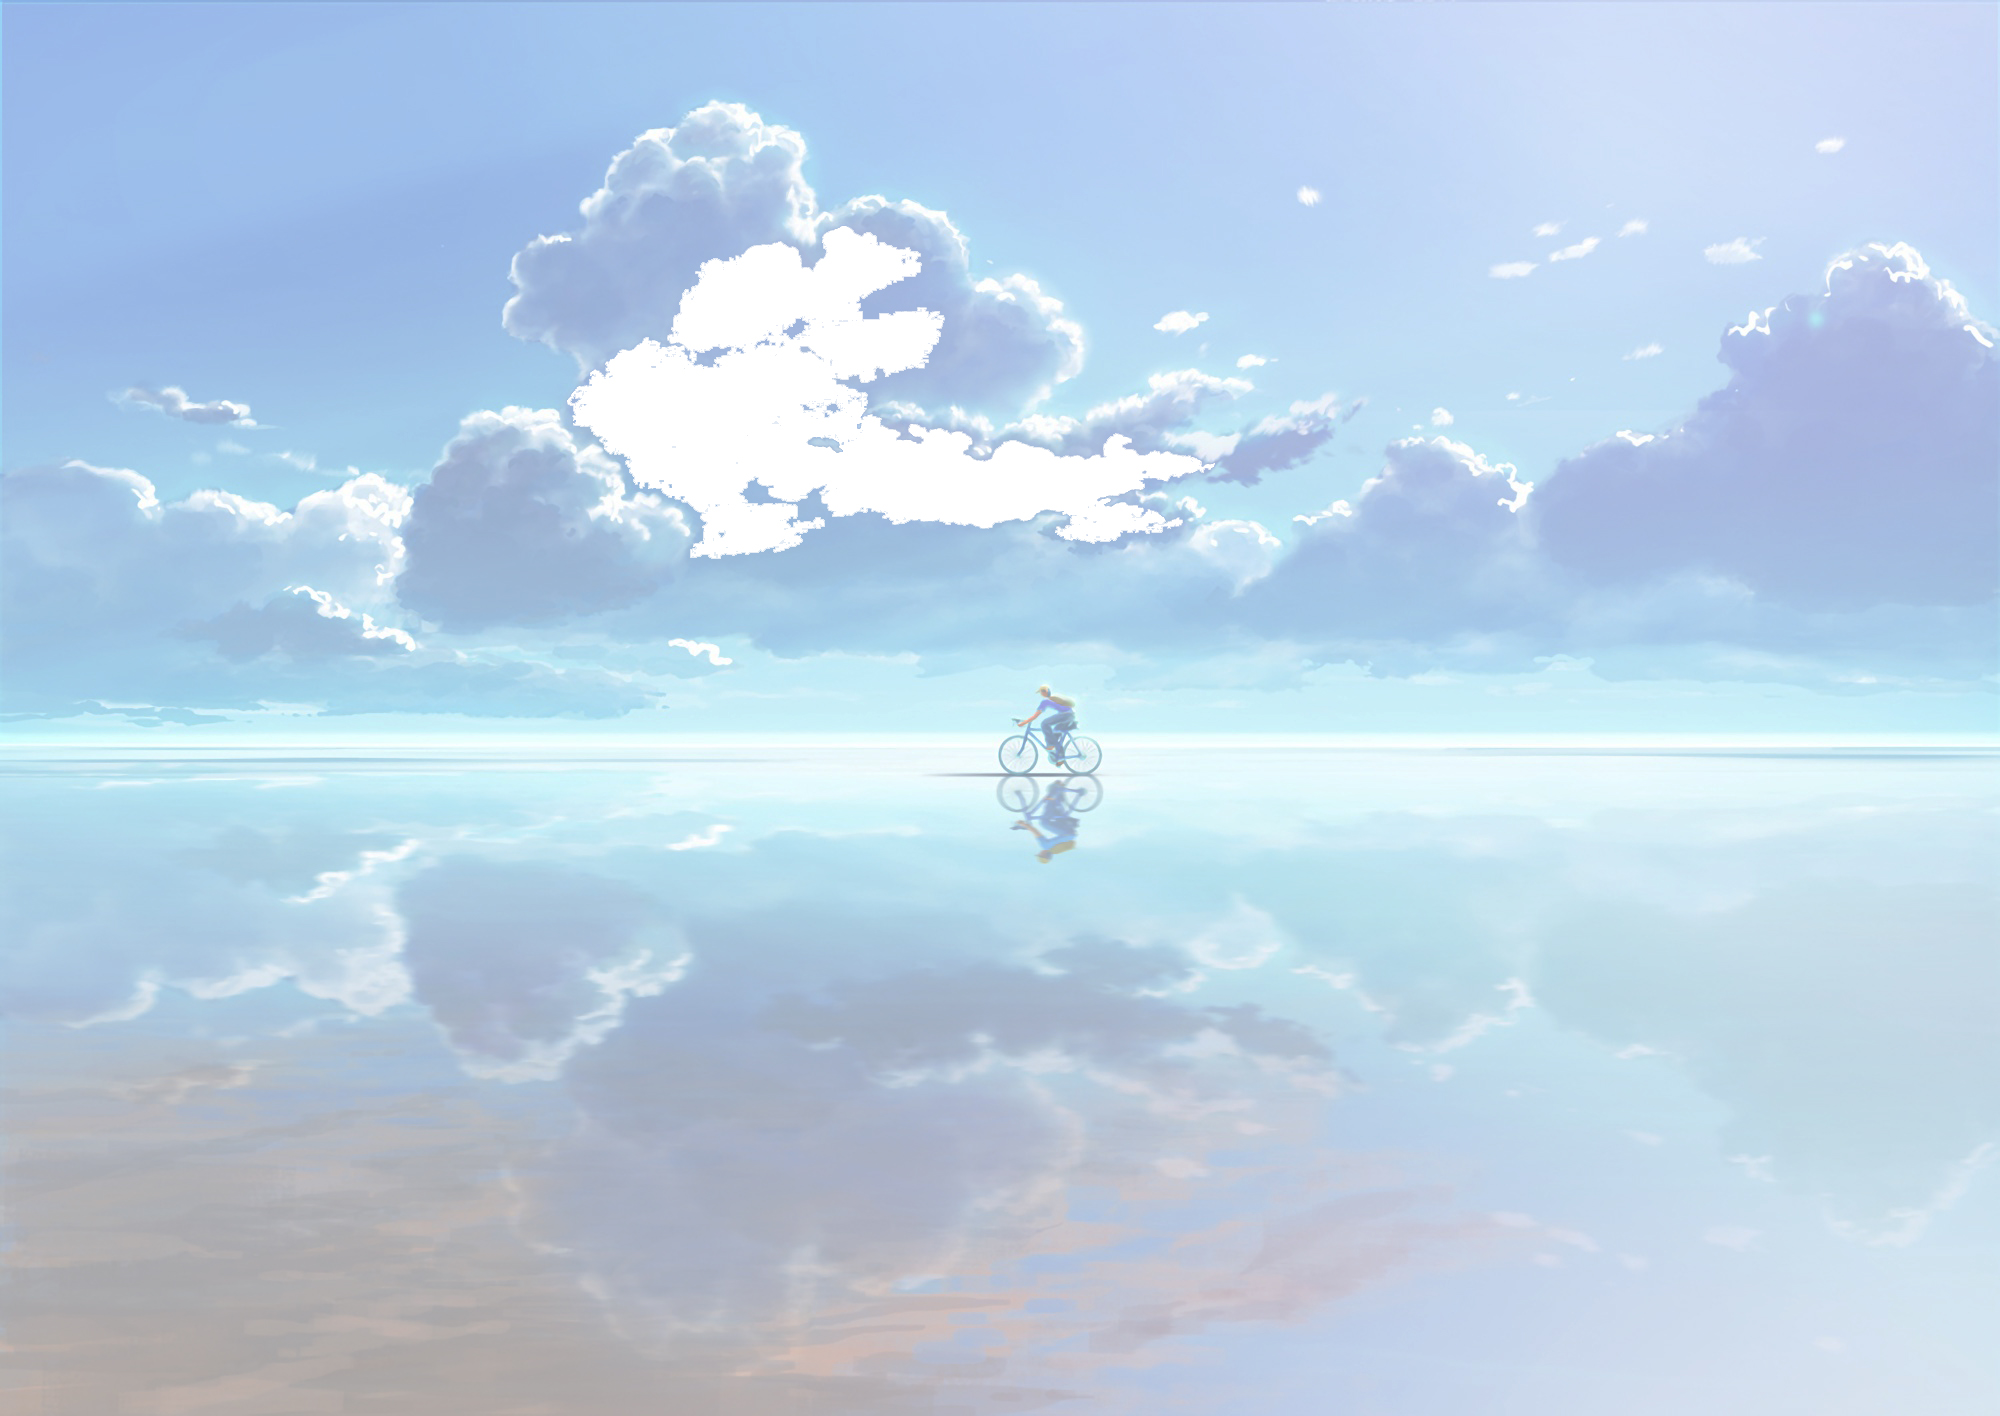
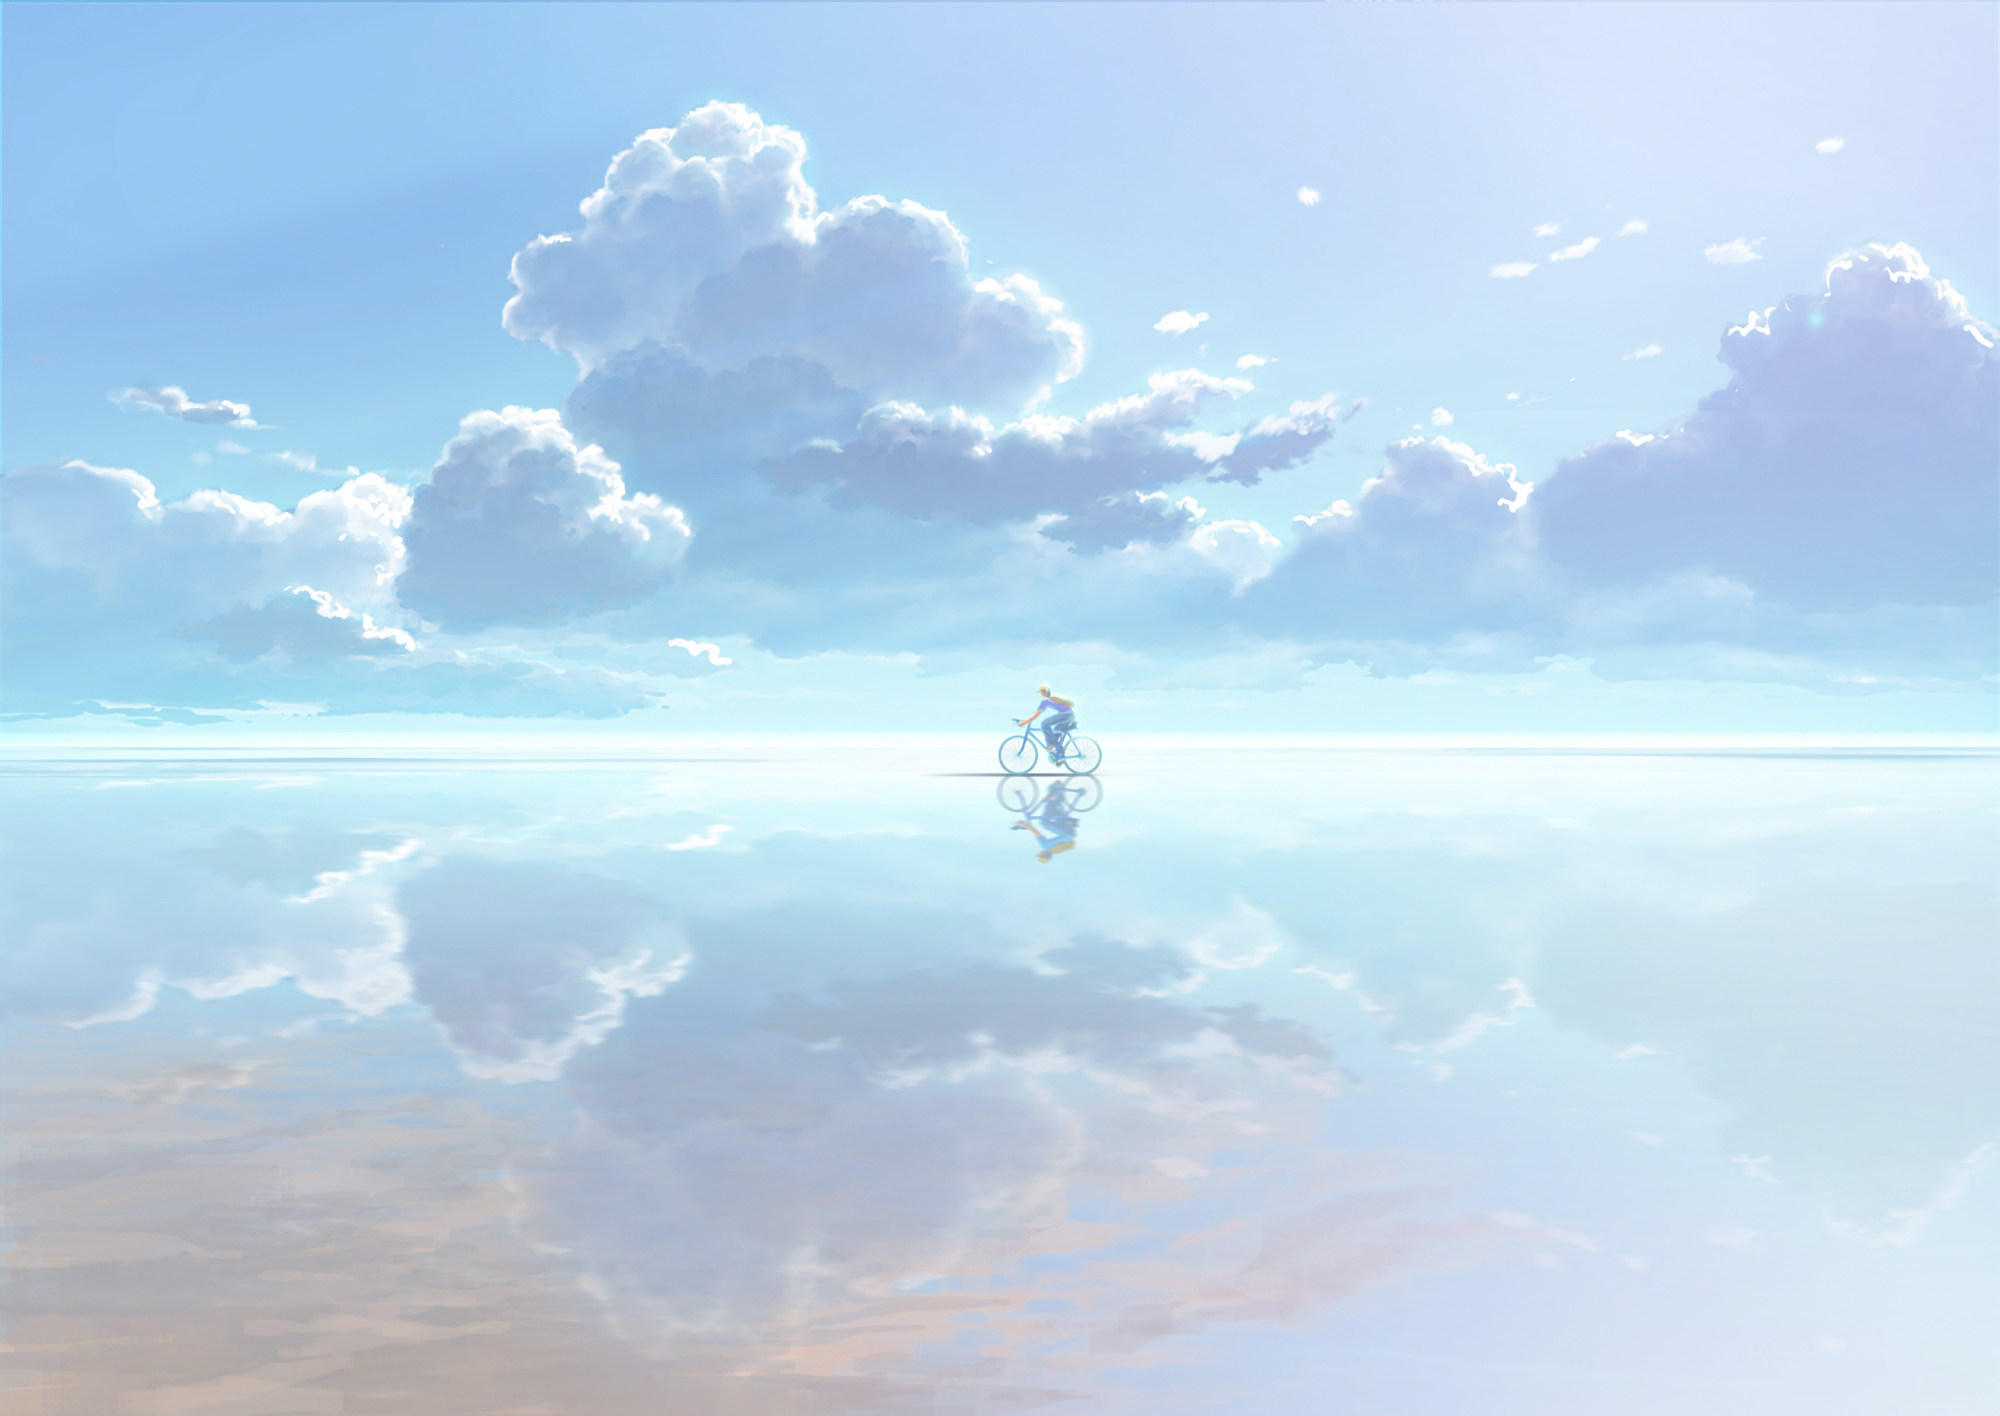
7-2

Changed region(s): [[0.279, 0.1554, 0.62, 0.404]]

diff --git a/src/main/resources/templates/index.html b/src/main/resources/templates/index.html
@@ -47,9 +47,13 @@
     </div>
 
     <div id="header_setting">
-        <img style="height:60px;width:60px;" src="image/setting.png" />
+        <div>
+            <img @click="bgsettingshow" style="height:60px;width:60px;" src="image/setting.png" />
+        </div>
+        <div v-if="bgsisshow" class="bgs">
+            <img class="bgspic"  v-for="(item,index) in bgslist" @click="changebg(index)" :src="item.src"/>
+        </div>
     </div>
-
     <div id="header_txbox">
         <img src="image/tx.ico" id="header_tx">
         <div style="top:25px;left:85px;position: absolute;"></div>
@@ -82,8 +86,8 @@
 <div id="zx_box">
     <p class="zx_box_title">热门资讯
     </p>
-
     <div id="zx_box_1">
+        <button onclick="changebg()"></button>
         <news  myclassname="zxi" news_title="item.news_title" news_id=item.news_id news_img="item.news_img" news_time="item.news_time" news_content="item.news_content">
         </news>
         <news  v-for="item in zxall" myclassname="zxi" :news_title="item.news_title" :news_id=item.news_id :news_img="item.news_img" :news_time="item.news_time" :news_content="item.news_content">
@@ -105,9 +109,38 @@
 <script src="js/pic_box.js" ></script>
 <script src="js/xmagic.js" ></script>
 <script src="js/indexvue.js" ></script>
+<script>
+    var setvue=new Vue({
+        el:"#header_setting",
+        data: {
+            bgsisshow:false,
+            bgslist:[
+            ],
+
+        },
+        methods:{
+            bgsettingshow() {
+                this.bgsisshow=!this.bgsisshow;
+                console.log("showit");
+            },
+            changebg(which){
+                document.documentElement.style.setProperty("--bgimg",'url("'+this.bgslist[which].var+'")')
+            }
+
+        }
+
+    },)
+
+    for(var i=1;i<21;i++){
+        var bgp={src:"",var:""};
+        bgp.src="image/background/"+i+".jpg";
+        console.log(bgp.src);
+        bgp.var="../"+bgp.src;
+        setvue.bgslist.push(bgp);
+    }
+</script>
 </body>
 <style>
-
     .zxi_pic_fly{
         position: absolute;
         left: 0;
@@ -115,6 +148,17 @@
         width: 50px;
         height: 50px;
     }
-
+    .bgspic{
+        width: 100px;
+        height: 100px;
+    }
+    .bgs{
+        height:300px;
+        width:320px;
+        position: absolute;
+        top:100%;
+        right:10px;
+        overflow: auto;
+    }
 </style>
 </html>

diff --git a/src/main/resources/templates/note.html b/src/main/resources/templates/note.html
@@ -17,7 +17,7 @@
     <script type="text/javascript" src="http://code.jquery.com/jquery.min.js"></script>
 
 </head>
-<body>
+<body class="body">
 
 <div th:insert="~{index::tourist}"></div>
 <div th:insert="~{index::header}"></div>
@@ -29,7 +29,7 @@
 
     <div class="zixun_info">
         <span> <img :src="islike?'image/透明蓝色蝴蝶结.gif':'image/hdj.png'" @click="dolike" style="height: 30px;width: 30px"  />{{  '点赞: '+likenum }}</span>
-        <span> <img src="image/cake.png"  style="height: 30px;width: 30px"  />{{  '浏览: '+looknum }}</span>
+        <span> <img src="image/cake.png"  style="height: 30px;width: 30px"  />{{ '浏览: '+looknum }}</span>
         <span style="margin-left: 30px"> {{text_fbtime}}</span>
         <span>{{'By  '+text_shop}}</span>
     </div>

diff --git a/src/main/resources/static/css/iupc.css b/src/main/resources/static/css/iupc.css
@@ -1,10 +1,10 @@
 :root{
-    --bgimg:url("../image/background/10.JPG");
+    --bgimg:url("../image/background/13.JPG");
     --bgimgwidth:1748px;
     --bgimgheight:847px;
 }
 .body{
-    background-image:url("../image/background/aa1.jpg");
+    /*background-image:url("../image/background/aa1.jpg");*/
     /*background-image:var(--bgimg);*/
     background-size:cover;
     background-attachment: fixed;
@@ -140,6 +140,7 @@
     height:43%;
     position:absolute;
     top:10%;
+    left:2%;
 }
 #pic_box{
     position: absolute;
@@ -241,7 +242,7 @@ ul li{
     background-position:7% 70% ;
     background-image: var(--bgimg);
     background-size: var(--bgimgwidth) var(--bgimgheight);
-    width: 76%;
+    width:82%;
     clear:both;
     overflow: hidden;
     margin: 10px 0 40px 0;

diff --git a/src/main/resources/templates/administrator.html b/src/main/resources/templates/administrator.html
@@ -28,7 +28,12 @@
         <td class="zixun_td1">通过</td>
         <td class="zixun_td1">不通过</td>
     </tr>
-    <datapiece v-for="item in admin" :did="'1'" :dtype="'news'" :dauthor="item.shop" :dtime="item.time"></datapiece>
+    <datapiece v-for="item in admin"
+               :did="'1'"
+               :dtype="'news'"
+               :dauthor="item.shop"
+               :dtime="item.time">
+    </datapiece>
 
 
 </table>

diff --git a/src/main/resources/templates/favorite_zx.html b/src/main/resources/templates/favorite_zx.html
@@ -17,7 +17,7 @@
     <script type="text/javascript" src="http://code.jquery.com/jquery.min.js"></script>
     <script src="https://unpkg.com/axios/dist/axios.min.js"></script>
 </head>
-<body>
+<body class="body">
 <div th:insert="~{index::header}"></div>
 <div th:insert="~{index::tourist}"></div>
 <div class="mianframe">
